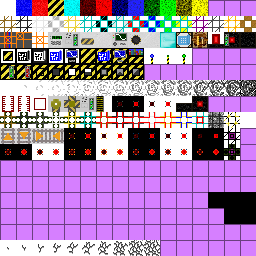
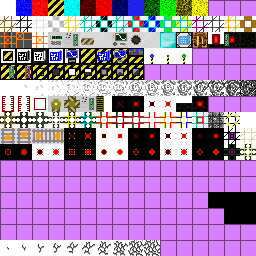
Added Sandstone pipe and waterproof pipe

Changed region(s): [[0.9375, 0.5, 1.0, 0.625]]

diff --git a/common/net/minecraft/src/BuildCraftTransport.java b/common/net/minecraft/src/BuildCraftTransport.java
@@ -42,6 +42,7 @@ import net.minecraft.src.buildcraft.transport.pipes.PipeItemsDiamond;
 import net.minecraft.src.buildcraft.transport.pipes.PipeItemsGold;
 import net.minecraft.src.buildcraft.transport.pipes.PipeItemsIron;
 import net.minecraft.src.buildcraft.transport.pipes.PipeItemsObsidian;
+import net.minecraft.src.buildcraft.transport.pipes.PipeItemsSandstone;
 import net.minecraft.src.buildcraft.transport.pipes.PipeItemsStone;
 import net.minecraft.src.buildcraft.transport.pipes.PipeItemsStripes;
 import net.minecraft.src.buildcraft.transport.pipes.PipeItemsVoid;
@@ -49,6 +50,7 @@ import net.minecraft.src.buildcraft.transport.pipes.PipeItemsWood;
 import net.minecraft.src.buildcraft.transport.pipes.PipeLiquidsCobblestone;
 import net.minecraft.src.buildcraft.transport.pipes.PipeLiquidsGold;
 import net.minecraft.src.buildcraft.transport.pipes.PipeLiquidsIron;
+import net.minecraft.src.buildcraft.transport.pipes.PipeLiquidsSandstone;
 import net.minecraft.src.buildcraft.transport.pipes.PipeLiquidsStone;
 import net.minecraft.src.buildcraft.transport.pipes.PipeLiquidsVoid;
 import net.minecraft.src.buildcraft.transport.pipes.PipeLiquidsWood;
@@ -87,6 +89,7 @@ public class BuildCraftTransport {
 	public static Item pipeItemsDiamond;
 	public static Item pipeItemsObsidian;
 	public static Item pipeItemsVoid;
+	public static Item pipeItemsSandstone;
 
 	public static Item pipeLiquidsWood;
 	public static Item pipeLiquidsCobblestone;
@@ -94,6 +97,7 @@ public class BuildCraftTransport {
 	public static Item pipeLiquidsIron;
 	public static Item pipeLiquidsGold;
 	public static Item pipeLiquidsVoid;
+	public static Item pipeLiquidsSandstone;
 
 	public static Item pipePowerWood;
 	public static Item pipePowerStone;
@@ -249,7 +253,12 @@ public class BuildCraftTransport {
 
 		pipeLiquidsVoid = createPipe(DefaultProps.PIPE_LIQUIDS_VOID_ID, PipeLiquidsVoid.class, "Void Waterproof Pipe",
 				pipeWaterproof, pipeItemsVoid, null);
-				
+		
+		pipeItemsSandstone = createPipe(DefaultProps.PIPE_ITEMS_SANDSTONE_ID, PipeItemsSandstone.class, "Sandstone Transport Pipe",
+				Block.sandStone, Block.glass, Block.sandStone);
+		
+		pipeLiquidsSandstone = createPipe(DefaultProps.PIPE_LIQUIDS_SANDSTONE_ID, PipeLiquidsSandstone.class, "Sandstone Waterproof Pipe",
+				pipeWaterproof, pipeItemsSandstone, null);
 
 		// dockingStationBlock = new
 		// BlockDockingStation(Integer.parseInt(dockingStationId.value));

diff --git a/common/net/minecraft/src/buildcraft/transport/pipes/PipeLiquidsSandstone.java b/common/net/minecraft/src/buildcraft/transport/pipes/PipeLiquidsSandstone.java
@@ -1,0 +1,36 @@
+/**
+ * Copyright (c) SpaceToad, 2011
+ * http://www.mod-buildcraft.com
+ *
+ * BuildCraft is distributed under the terms of the Minecraft Mod Public
+ * License 1.0, or MMPL. Please check the contents of the license located in
+ * http://www.mod-buildcraft.com/MMPL-1.0.txt
+ */
+
+package net.minecraft.src.buildcraft.transport.pipes;
+
+import net.minecraft.src.buildcraft.api.Orientations;
+import net.minecraft.src.buildcraft.transport.IPipeTransportLiquidsHook;
+import net.minecraft.src.buildcraft.transport.Pipe;
+import net.minecraft.src.buildcraft.transport.PipeLogicSandstone;
+import net.minecraft.src.buildcraft.transport.PipeTransportLiquids;
+import net.minecraft.src.buildcraft.transport.TileGenericPipe;
+
+public class PipeLiquidsSandstone extends Pipe implements IPipeTransportLiquidsHook{
+	 public PipeLiquidsSandstone(int itemID) {
+			super(new PipeTransportLiquids(), new PipeLogicSandstone(), itemID);
+	}
+	 
+	 @Override
+	public int getMainBlockTexture() {
+		 return 9 * 16 + 15;
+	}
+
+	@Override
+	public int fill(Orientations from, int quantity, int id, boolean doFill) {
+		if (!(container.tileBuffer[from.ordinal()].getTile() instanceof TileGenericPipe)) 
+				return 0;
+		
+		return ((PipeTransportLiquids)this.transport).side[from.ordinal()].fill(quantity, doFill, (short) id);
+	}
+}

diff --git a/common/net/minecraft/src/buildcraft/transport/pipes/PipeItemsSandstone.java b/common/net/minecraft/src/buildcraft/transport/pipes/PipeItemsSandstone.java
@@ -1,0 +1,26 @@
+/**
+ * Copyright (c) SpaceToad, 2011
+ * http://www.mod-buildcraft.com
+ *
+ * BuildCraft is distributed under the terms of the Minecraft Mod Public
+ * License 1.0, or MMPL. Please check the contents of the license located in
+ * http://www.mod-buildcraft.com/MMPL-1.0.txt
+ */
+
+package net.minecraft.src.buildcraft.transport.pipes;
+
+import net.minecraft.src.buildcraft.transport.Pipe;
+import net.minecraft.src.buildcraft.transport.PipeLogicSandstone;
+import net.minecraft.src.buildcraft.transport.PipeTransportItems;
+
+public class PipeItemsSandstone extends Pipe{
+	 public PipeItemsSandstone(int itemID) {
+			super(new PipeTransportItems(), new PipeLogicSandstone(), itemID);
+	}
+	 
+	 @Override
+	public int getMainBlockTexture() {
+		 return 8 * 16 + 15;
+	}
+
+}

diff --git a/buildcraft_client/net/minecraft/src/mod_BuildCraftTransport.java b/buildcraft_client/net/minecraft/src/mod_BuildCraftTransport.java
@@ -56,6 +56,8 @@ public class mod_BuildCraftTransport extends NetworkMod implements IItemRenderer
 		MinecraftForgeClient.registerItemRenderer(BuildCraftTransport.pipeItemsStipes.shiftedIndex, this);
 		MinecraftForgeClient.registerItemRenderer(BuildCraftTransport.pipeItemsVoid.shiftedIndex, this);
 		MinecraftForgeClient.registerItemRenderer(BuildCraftTransport.pipeLiquidsVoid.shiftedIndex, this);
+		MinecraftForgeClient.registerItemRenderer(BuildCraftTransport.pipeItemsSandstone.shiftedIndex, this);
+		MinecraftForgeClient.registerItemRenderer(BuildCraftTransport.pipeLiquidsSandstone.shiftedIndex, this);
 	}
 
 	public static void registerTilePipe(Class<? extends TileEntity> clas, String name) {

diff --git a/common/net/minecraft/src/buildcraft/transport/PipeLogicSandstone.java b/common/net/minecraft/src/buildcraft/transport/PipeLogicSandstone.java
@@ -1,0 +1,21 @@
+/**
+ * Copyright (c) SpaceToad, 2011
+ * http://www.mod-buildcraft.com
+ *
+ * BuildCraft is distributed under the terms of the Minecraft Mod Public
+ * License 1.0, or MMPL. Please check the contents of the license located in
+ * http://www.mod-buildcraft.com/MMPL-1.0.txt
+ */
+
+package net.minecraft.src.buildcraft.transport;
+
+import net.minecraft.src.TileEntity;
+import net.minecraft.src.buildcraft.transport.PipeLogic;
+import net.minecraft.src.buildcraft.transport.TileGenericPipe;
+
+public class PipeLogicSandstone extends PipeLogic{
+	@Override
+	public boolean isPipeConnected(TileEntity tile) {
+		 return (tile instanceof TileGenericPipe);
+	}
+}

diff --git a/common/net/minecraft/src/buildcraft/core/DefaultProps.java b/common/net/minecraft/src/buildcraft/core/DefaultProps.java
@@ -77,6 +77,8 @@ public class DefaultProps {
 	public static int PIPE_STRUCTURE_COBBLESTONE_ID = 4072;
 	public static int PIPE_ITEMS_VOID_ID = 19150;
 	public static int PIPE_LIQUIDS_VOID_ID = 19151;
+	public static int PIPE_ITEMS_SANDSTONE_ID = 19152;
+	public static int PIPE_LIQUIDS_SANDSTONE_ID = 19153;
 
 	public static int WOODEN_PIPE_ID = 145; // LEGACY
 	public static int STONE_PIPE_ID = 146; // LEGACY
